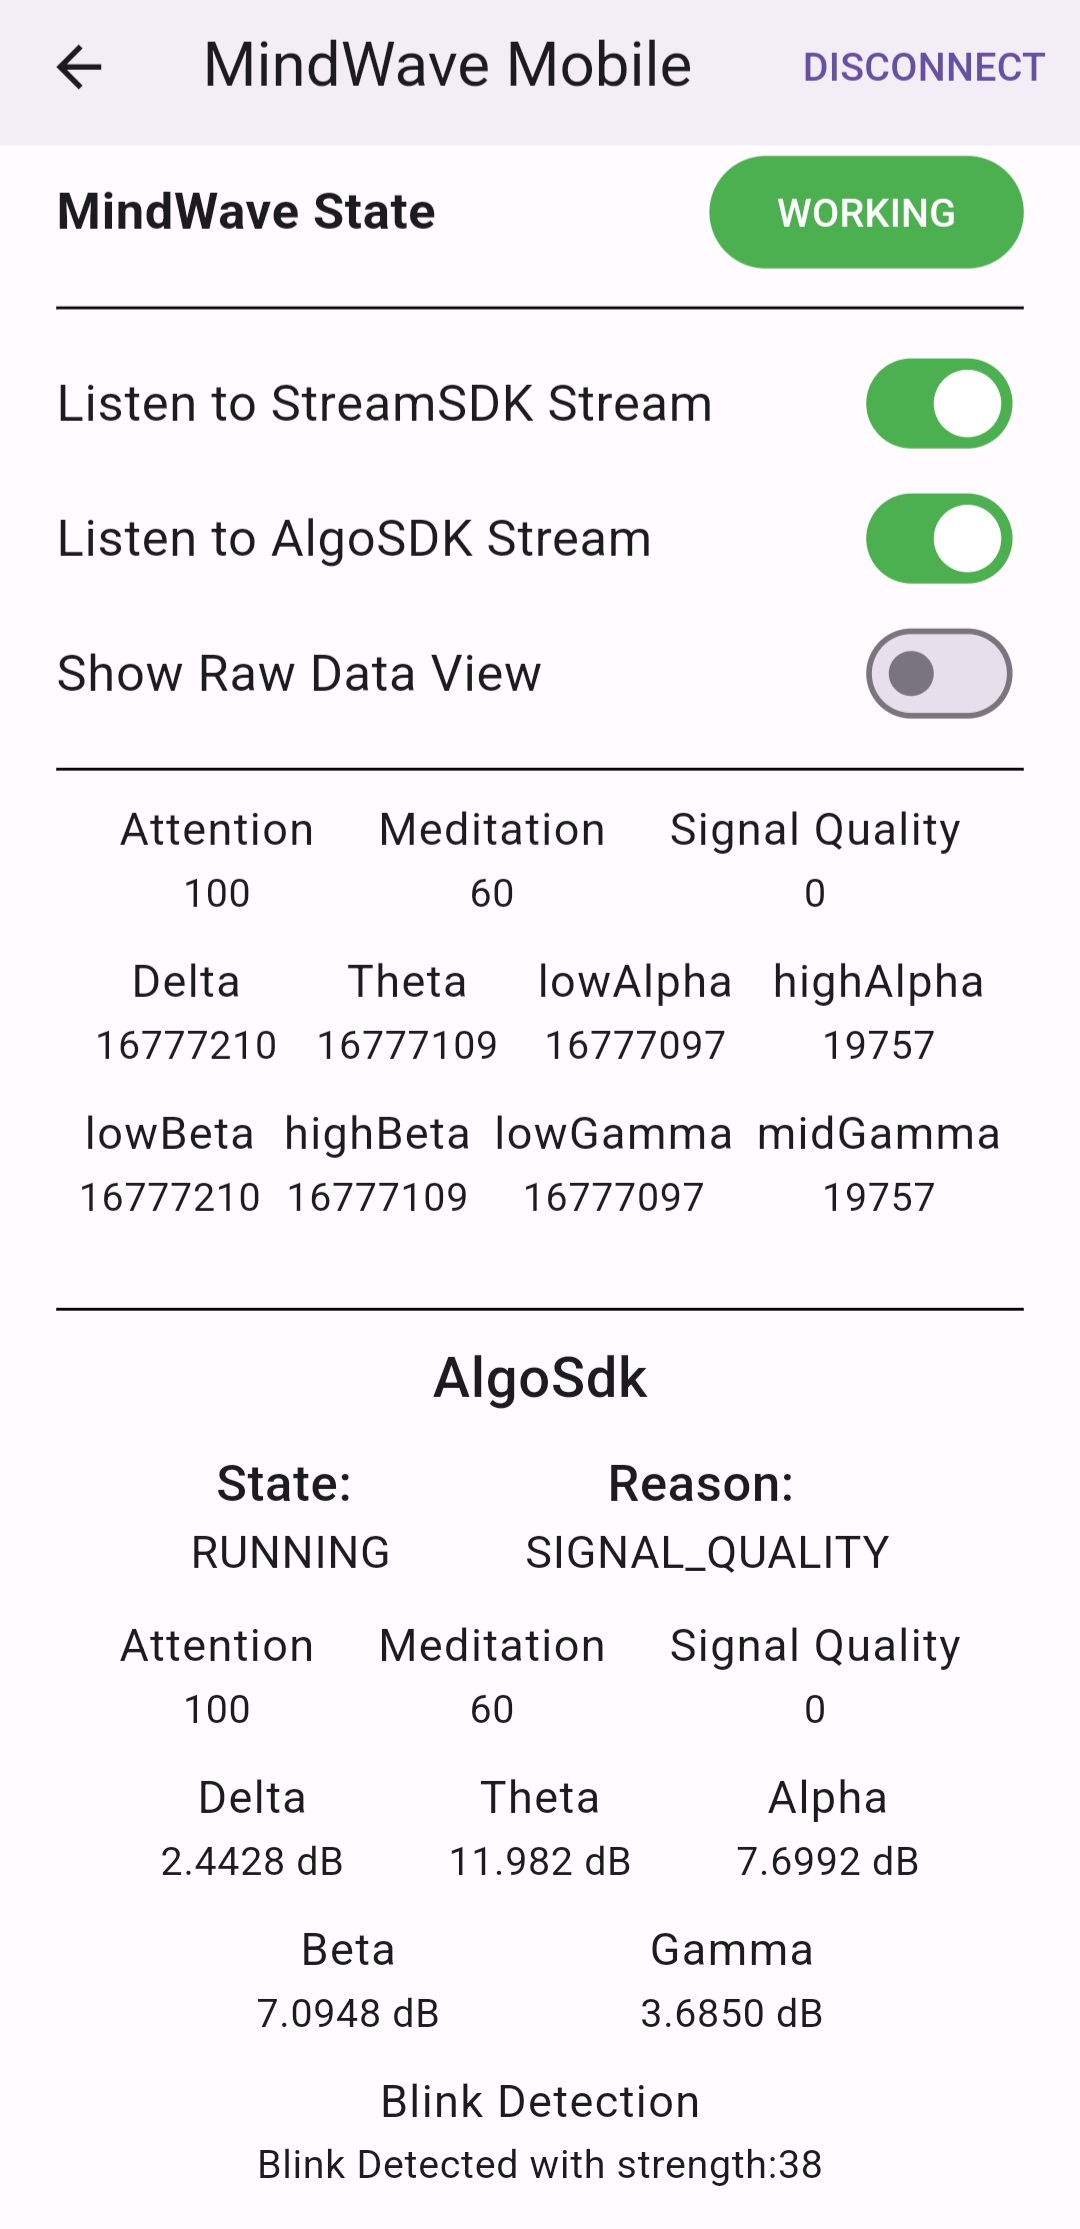
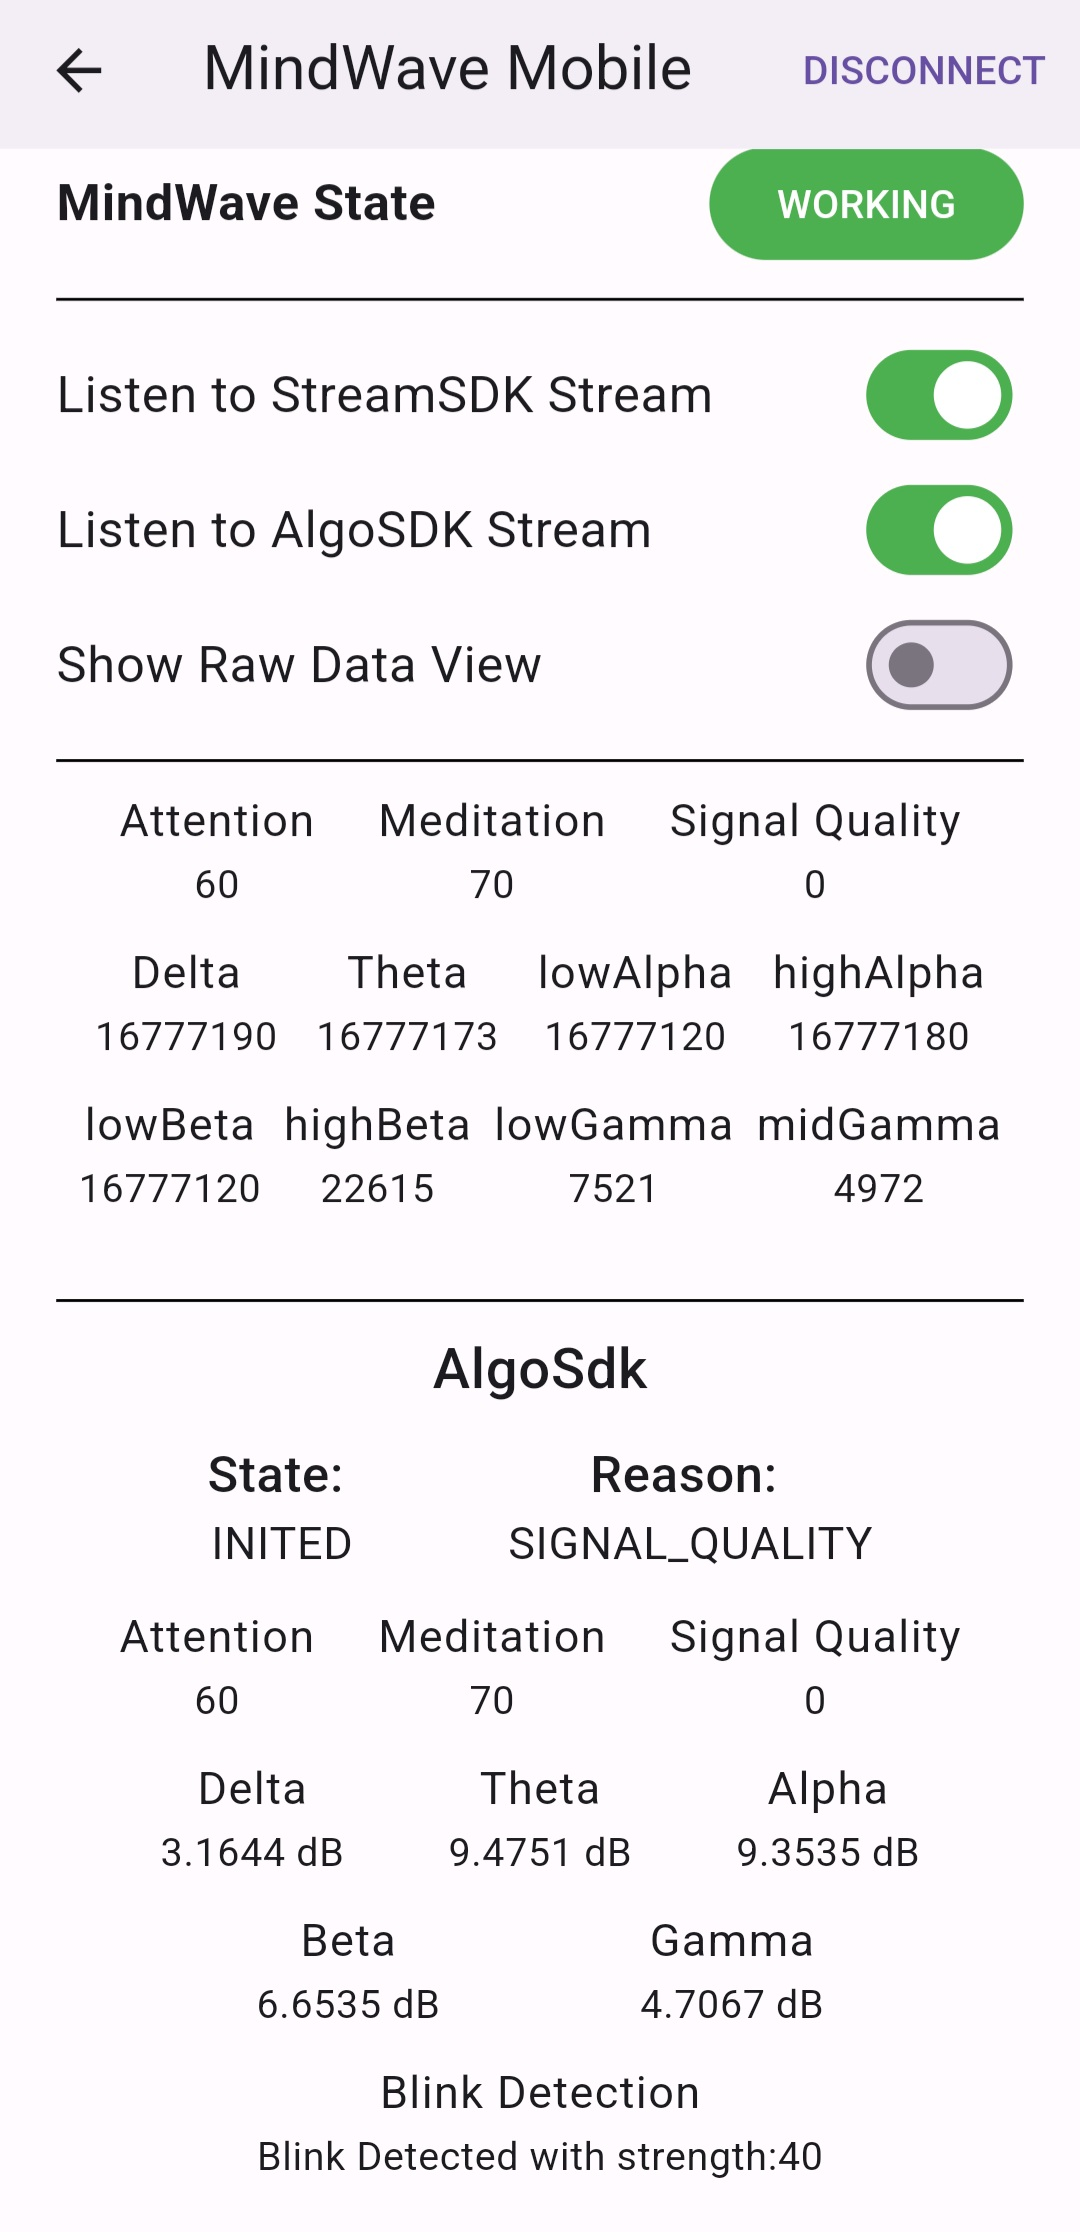
Added missing 'highGamma' signal

diff --git a/example/lib/screens/device_screen.dart b/example/lib/screens/device_screen.dart
@@ -281,7 +281,7 @@ class _DeviceScreenState extends State<DeviceScreen> {
                   children: [
                     Text("lowBeta",
                         style: Theme.of(context).textTheme.bodyLarge),
-                    Text(snapshot.hasData ? "${bandPower!.delta}" : "N/A",
+                    Text(snapshot.hasData ? "${bandPower!.lowBeta}" : "N/A",
                         style: Theme.of(context).textTheme.bodyMedium),
                   ],
                 ),
@@ -289,7 +289,7 @@ class _DeviceScreenState extends State<DeviceScreen> {
                   children: [
                     Text("highBeta",
                         style: Theme.of(context).textTheme.bodyLarge),
-                    Text(snapshot.hasData ? "${bandPower!.theta}" : "N/A",
+                    Text(snapshot.hasData ? "${bandPower!.highBeta}" : "N/A",
                         style: Theme.of(context).textTheme.bodyMedium),
                   ],
                 ),
@@ -297,7 +297,7 @@ class _DeviceScreenState extends State<DeviceScreen> {
                   children: [
                     Text("lowGamma",
                         style: Theme.of(context).textTheme.bodyLarge),
-                    Text(snapshot.hasData ? "${bandPower!.lowAlpha}" : "N/A",
+                    Text(snapshot.hasData ? "${bandPower!.lowGamma}" : "N/A",
                         style: Theme.of(context).textTheme.bodyMedium),
                   ],
                 ),
@@ -305,7 +305,7 @@ class _DeviceScreenState extends State<DeviceScreen> {
                   children: [
                     Text("midGamma",
                         style: Theme.of(context).textTheme.bodyLarge),
-                    Text(snapshot.hasData ? "${bandPower!.highAlpha}" : "N/A",
+                    Text(snapshot.hasData ? "${bandPower!.middleGamma}" : "N/A",
                         style: Theme.of(context).textTheme.bodyMedium),
                   ],
                 ),

diff --git a/lib/band_power.dart b/lib/band_power.dart
@@ -19,6 +19,9 @@ class BandPower {
   /// The low beta band power value.
   late num lowBeta;
 
+  /// The low beta band power value.
+  late num highBeta;
+
   /// The low gamma band power value.
   late num lowGamma;
 
@@ -32,8 +35,9 @@ class BandPower {
   /// - [lowAlpha]: The low alpha band power value.
   /// - [highAlpha]: The high alpha band power value.
   /// - [lowBeta]: The low beta band power value.
+  /// - [highBeta]: The high beta band power value.
   /// - [lowGamma]: The low gamma band power value.
   /// - [middleGamma]: The middle gamma band power value.
   BandPower(this.delta, this.theta, this.lowAlpha, this.highAlpha, this.lowBeta,
-      this.lowGamma, this.middleGamma);
+      this.highBeta, this.lowGamma, this.middleGamma);
 }

diff --git a/lib/mindwave_mobile2.dart b/lib/mindwave_mobile2.dart
@@ -119,7 +119,7 @@ class MindwaveMobile2 {
   /// emits 'BandPower' values every second
   Stream<BandPower> onBandPowerUpdate() {
     return _bandPowerChannel.receiveBroadcastStream().map((event) => BandPower(
-        event[0], event[1], event[2], event[3], event[4], event[5], event[6]));
+        event[0], event[1], event[2], event[3], event[4], event[5], event[6], event[7]));
   }
 
   /// Stream for receiving updates on raw data update.
